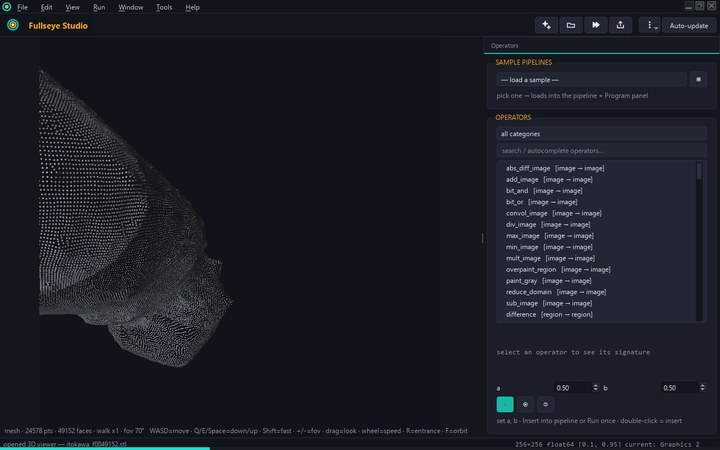
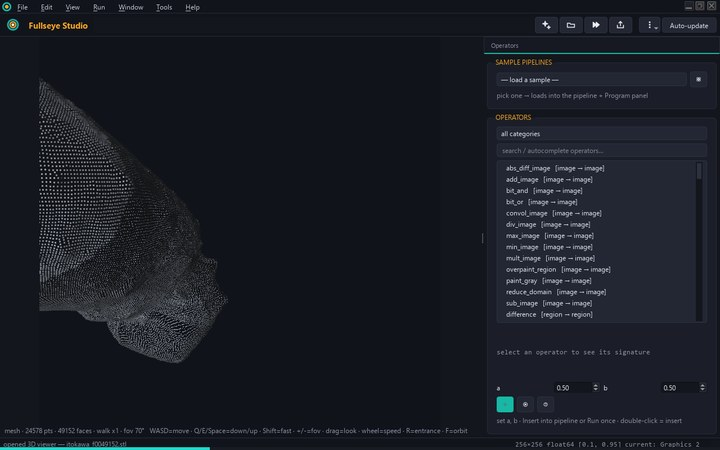
auto: gen_wingstudio_gallery.py 編集前 (2026-09-02 04:24)

Changed region(s): [[0.0306, 0.1867, 0.3361, 0.8089]]

diff --git a/tools/gen_wingstudio_gallery.py b/tools/gen_wingstudio_gallery.py
@@ -1358,18 +1358,19 @@ def ex_studio_walk():
     shot("軌道カメラ(通常モード)")
     _tap(v3, QtCore.Qt.Key_F)                       # F: 一人称へ
     shot("F を押した直後 = ウォークスルー入口")
-    for i in range(9):                              # W: 前進(1 タップ = 1 歩)
+    # 歩数は「近づくが、まだ表面の手前」に収める。踏み込みすぎると点群の内側に
+    # 入って画面がほぼ空になる(実測: 前進 15 歩だと 24 コマ中 14 コマが空)。
+    for i in range(6):                              # W: 前進(1 タップ = 1 歩)
         _tap(v3, QtCore.Qt.Key_W)
-        if i % 3 == 2:
+        if i % 2 == 1:
             shot("W で前進 (%d 歩)" % (i + 1))
     cx, cy = v3.width() // 2, v3.height() // 2
     for i in range(4):                              # ドラッグで見回す
         _drag(v3, cx, cy, cx + 46, cy - 6, steps=6)
         shot("左ドラッグで見回す")
-    for i in range(6):
+    for i in range(2):
         _tap(v3, QtCore.Qt.Key_W)
-        if i % 3 == 2:
-            shot("さらに前進")
+        shot("さらに前進 (%d 歩)" % (7 + i))
     for i in range(4):                              # +: 視野角を広げる
         _tap(v3, QtCore.Qt.Key_Plus)
         shot("+ で視野角 %.0f 度" % v3._fp_fov)
